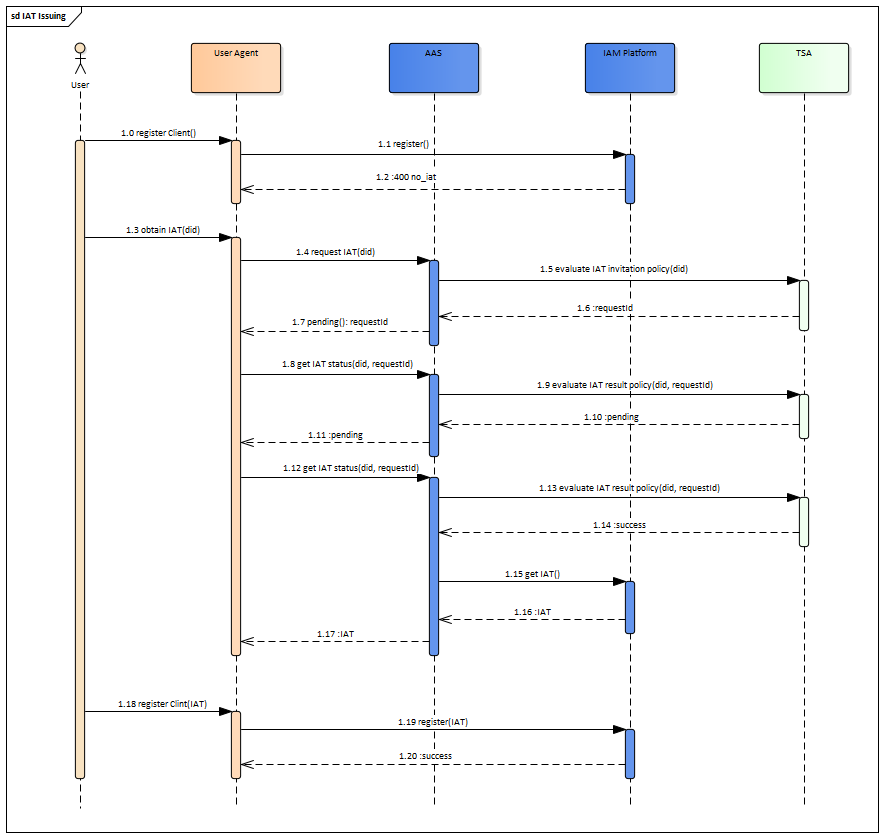
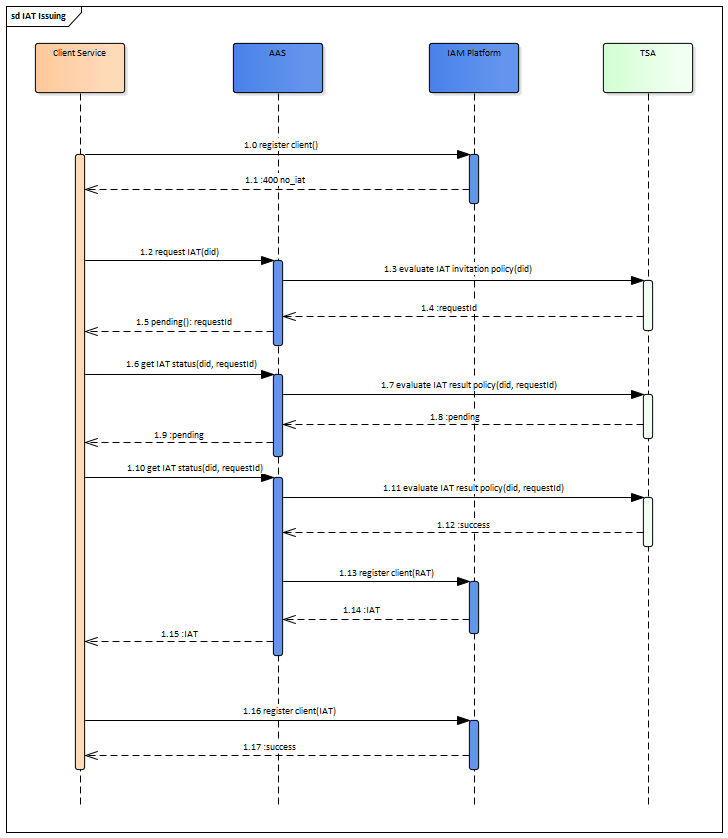
fixed IAT Provision diagrams

diff --git a/doc/functions/iat_provider/index.md b/doc/functions/iat_provider/index.md
@@ -11,6 +11,9 @@ The communication flow between Client app, AAS and its IAM is:
 
 ![IAT Issuing](./images/iat_issuing.png "IAT Issuing")
 
+And the Data Flow Diagram for this functionality is:
+
+![IAT Provision DFD](./images/iat_provision_dfd.png "IAT Provision DFD")
 
 An alternative scenario proposed in [Dynamic Client Registration](../dcr) function.
 
